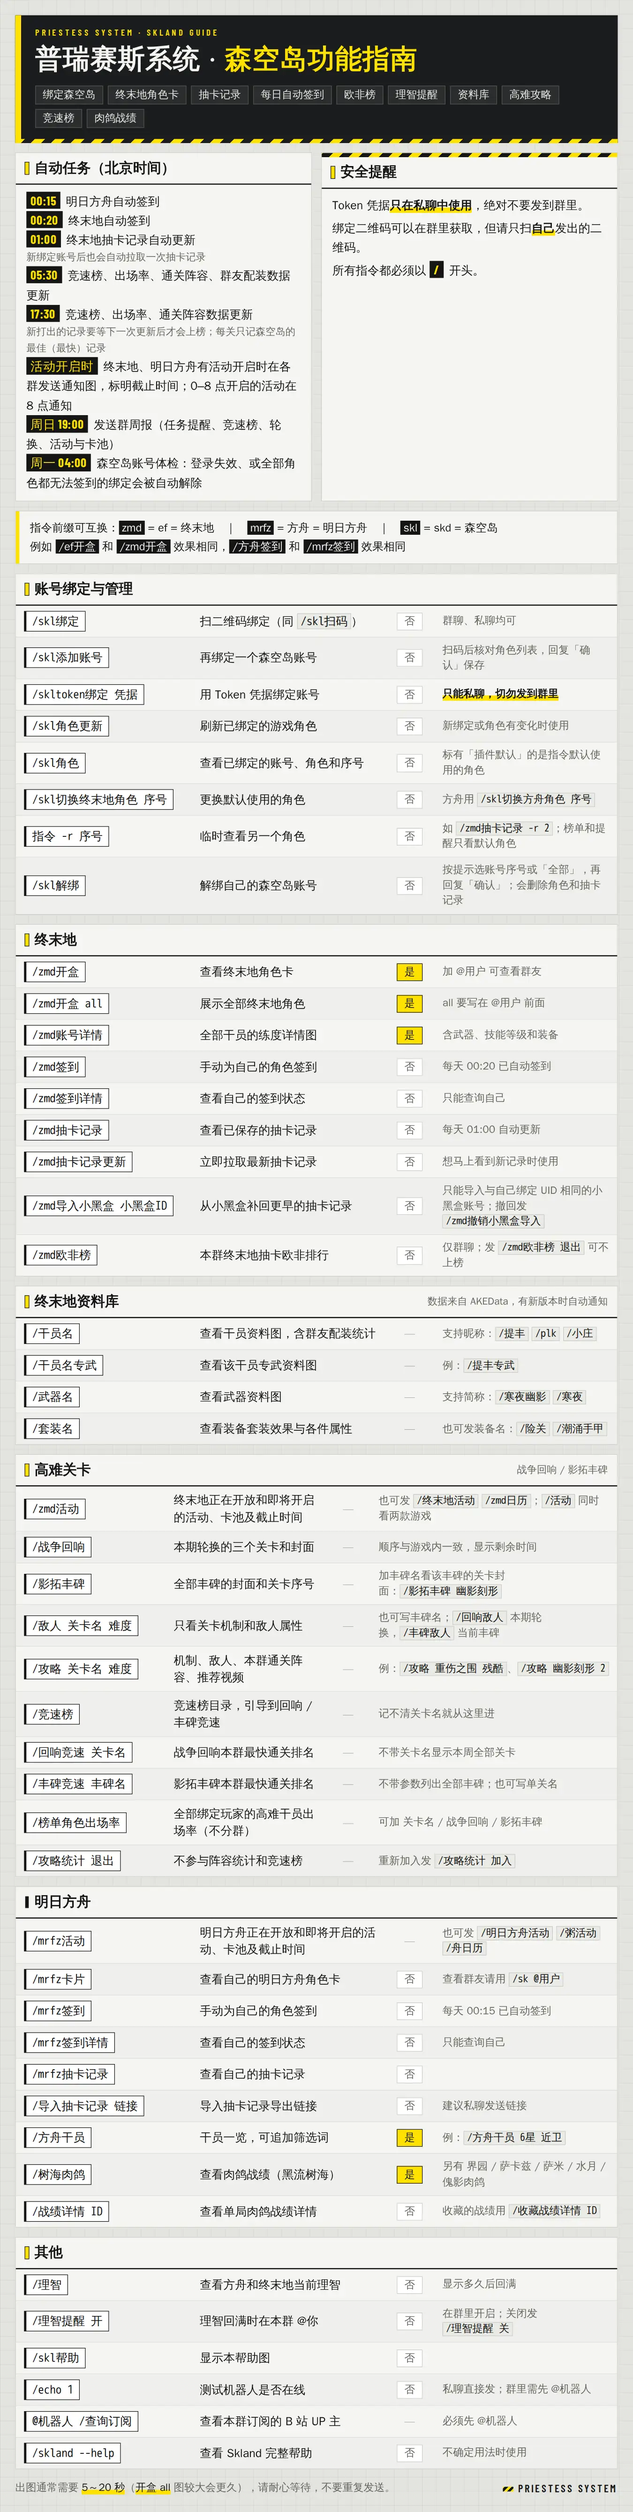
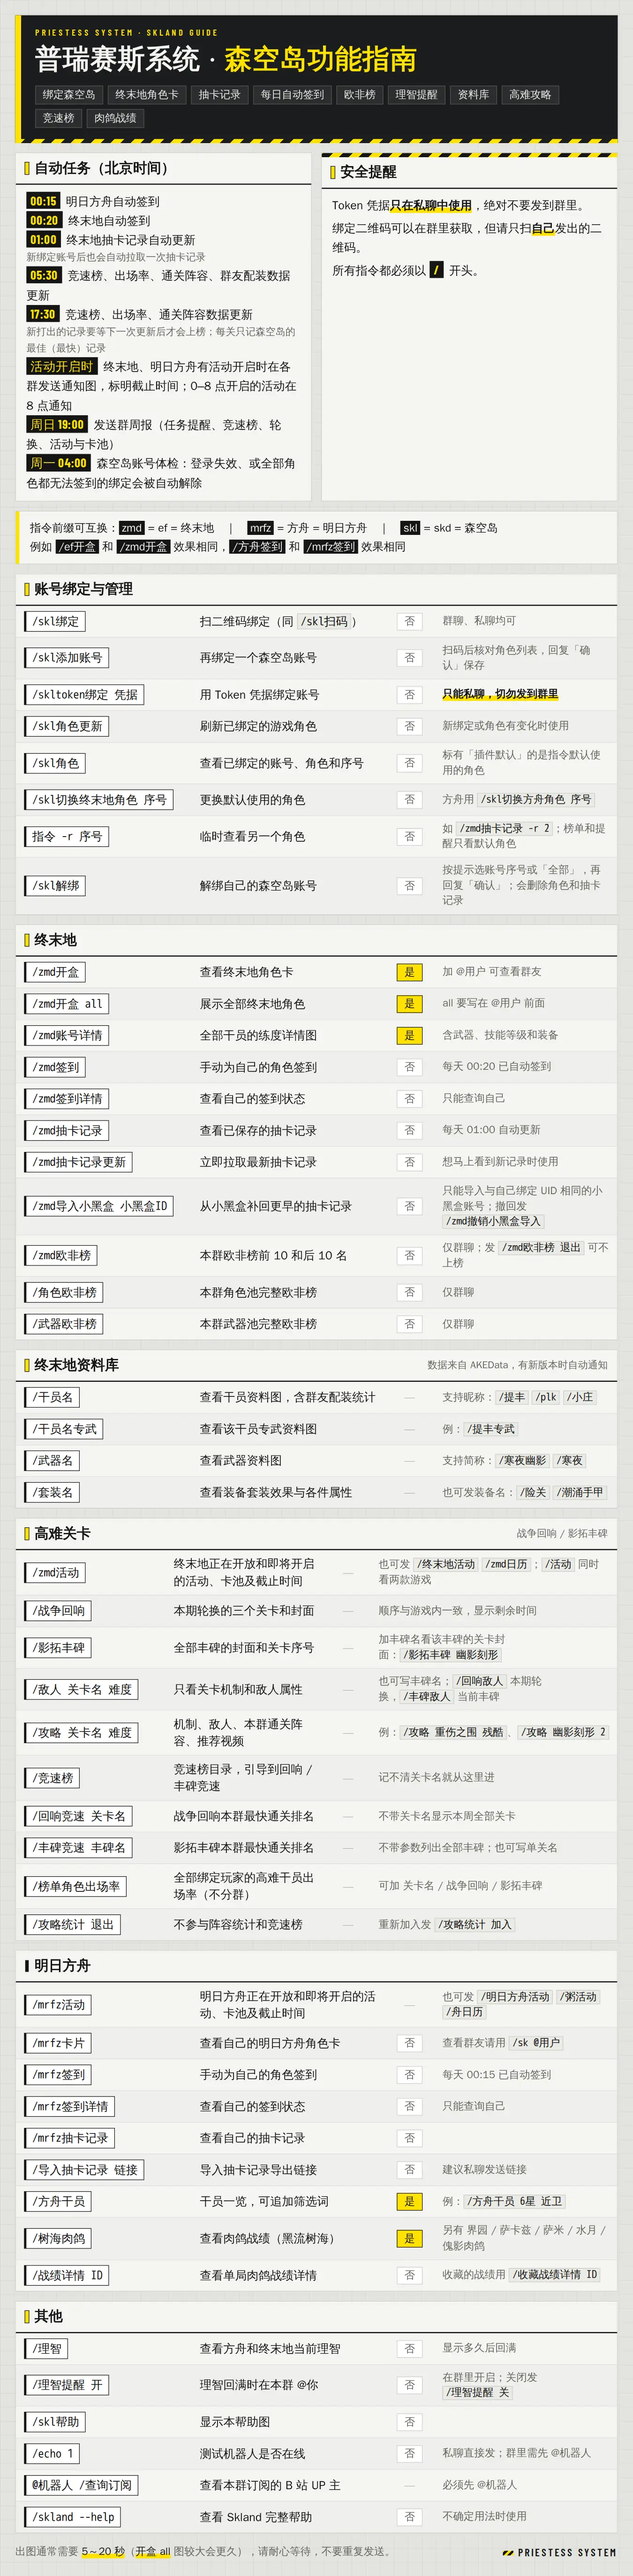
Split the luck board: top and bottom ten overview, full operator and weapon boards
/zmd欧非榜 now lists the ten luckiest and ten unluckiest members of the limited character pools and of the weapon pools, with the requester's place on both. /角色欧非榜 and /武器欧非榜 show the complete board of one pool, read down each column. Help image and README command table updated.

Changed region(s): [[0.0311, 0.0, 0.9644, 0.9979], [0.84, 0.6549, 0.9333, 0.6861], [0.6222, 0.9044, 0.6533, 0.9668]]

diff --git a/plugins/skl_help/help.html b/plugins/skl_help/help.html
@@ -167,7 +167,9 @@ td.note { color: var(--ef-sub); font-size: 18px; }
       <tr><td class="cmd"><code>/zmd抽卡记录</code></td><td class="fn">查看已保存的抽卡记录</td><td class="at"><span class="no">否</span></td><td class="note">每天 01:00 自动更新</td></tr>
       <tr><td class="cmd"><code>/zmd抽卡记录更新</code></td><td class="fn">立即拉取最新抽卡记录</td><td class="at"><span class="no">否</span></td><td class="note">想马上看到新记录时使用</td></tr>
       <tr><td class="cmd"><code>/zmd导入小黑盒 小黑盒ID</code></td><td class="fn">从小黑盒补回更早的抽卡记录</td><td class="at"><span class="no">否</span></td><td class="note">只能导入与自己绑定 UID 相同的小黑盒账号；撤回发 <code>/zmd撤销小黑盒导入</code></td></tr>
-      <tr><td class="cmd"><code>/zmd欧非榜</code></td><td class="fn">本群终末地抽卡欧非排行</td><td class="at"><span class="no">否</span></td><td class="note">仅群聊；发 <code>/zmd欧非榜 退出</code> 可不上榜</td></tr>
+      <tr><td class="cmd"><code>/zmd欧非榜</code></td><td class="fn">本群欧非榜前 10 和后 10 名</td><td class="at"><span class="no">否</span></td><td class="note">仅群聊；发 <code>/zmd欧非榜 退出</code> 可不上榜</td></tr>
+      <tr><td class="cmd"><code>/角色欧非榜</code></td><td class="fn">本群角色池完整欧非榜</td><td class="at"><span class="no">否</span></td><td class="note">仅群聊</td></tr>
+      <tr><td class="cmd"><code>/武器欧非榜</code></td><td class="fn">本群武器池完整欧非榜</td><td class="at"><span class="no">否</span></td><td class="note">仅群聊</td></tr>
     </table>
   </div>
 

diff --git a/plugins/skland_gacha_rank/__init__.py b/plugins/skland_gacha_rank/__init__.py
@@ -1,4 +1,7 @@
-"""Group-scoped Endfield gacha luck leaderboard (/zmd欧非榜).
+"""Group-scoped Endfield gacha luck leaderboards.
+
+/zmd欧非榜 shows the ten luckiest and ten unluckiest members for the limited character pools and for the
+weapon pools; /角色欧非榜 and /武器欧非榜 list everyone on one of the two boards.
 
 Stats reuse Skland's own grouping and averaging (group_ef_gacha_records), so the
 numbers match /zmd抽卡记录. Only members of the current group who have bound
@@ -9,6 +12,7 @@ from __future__ import annotations
 
 import contextlib
 import json
+from collections.abc import Callable
 from dataclasses import dataclass
 from datetime import datetime
 from zoneinfo import ZoneInfo
@@ -40,21 +44,27 @@ from sqlalchemy import select
 
 __plugin_meta__ = PluginMetadata(
     name="Endfield gacha leaderboard",
-    description="Ranks group members by Endfield limited-pool pulls per UP operator.",
-    usage="/zmd欧非榜 | /zmd欧非榜 退出 | /zmd欧非榜 加入",
+    description="Ranks group members by Endfield pulls per UP operator (limited pools) and per UP weapon.",
+    usage="/zmd欧非榜 | /角色欧非榜 | /武器欧非榜 | /zmd欧非榜 退出 | /zmd欧非榜 加入",
     type="application",
 )
 
 PLATFORM = "QQClient"
-CHAR_TOP = 10
-WEAPON_TOP = 5
+TOP = 10  # rows of each lucky / unlucky table on the overview
 MIN_UP = 2  # fewer UPs than this is too small a sample to rank
 WIDTH = 1000
+FULL_COLUMNS = 3  # the full boards read down each column
 REACTION_PROCESSING, REACTION_DONE, REACTION_FAIL = "66", "144", "10060"
 OPTOUT_FILE = store.get_plugin_data_file("optout.json")
 
 gacha_rank = on_command(
     "zmd欧非榜", aliases={"ef欧非榜", "终末地欧非榜", "欧非榜"}, rule=strict, priority=5, block=True
+)
+char_rank = on_command(
+    "zmd角色欧非榜", aliases={"ef角色欧非榜", "终末地角色欧非榜", "角色欧非榜"}, rule=strict, priority=5, block=True
+)
+weapon_rank = on_command(
+    "zmd武器欧非榜", aliases={"ef武器欧非榜", "终末地武器欧非榜", "武器欧非榜"}, rule=strict, priority=5, block=True
 )
 
 
@@ -67,6 +77,47 @@ class Entry:
     special_pulls: int
     weapon_avg: float
     weapon_up: int
+
+
+@dataclass(frozen=True)
+class Board:
+    pool: str  # 角色池 / 武器池
+    command: str
+    english: str
+    basis: str
+    target: str  # what one UP is, with its measure word
+    measure: str
+    empty: str
+    avg: Callable[[Entry], float]
+    count: Callable[[Entry], int]
+
+    def ranked(self, entries: list[Entry]) -> list[Entry]:
+        """Luckiest first; fewer UPs than MIN_UP is not ranked."""
+        return sorted((e for e in entries if self.count(e) >= MIN_UP), key=lambda e: (self.avg(e), -self.count(e)))
+
+
+CHARACTERS = Board(
+    pool="角色池",
+    command="/角色欧非榜",
+    english="Operator",
+    basis="限定池「平均多少抽出一个 UP 干员」",
+    target="一个 UP 干员",
+    measure="个",
+    empty="本群还没有可统计的终末地限定池抽卡记录",
+    avg=lambda e: e.up_avg,
+    count=lambda e: e.up_count,
+)
+WEAPONS = Board(
+    pool="武器池",
+    command="/武器欧非榜",
+    english="Weapon",
+    basis="武器池「平均多少抽出一把 UP 武器」",
+    target="一把 UP 武器",
+    measure="把",
+    empty="本群还没有可统计的终末地武器池抽卡记录",
+    avg=lambda e: e.weapon_avg,
+    count=lambda e: e.weapon_up,
+)
 
 
 def _load_optout() -> set[str]:
@@ -151,6 +202,8 @@ body { width: %dpx; padding: 26px; }
 .mine:before { content: ""; position: absolute; left: 0; top: 0; bottom: 0; width: 8px; background: var(--ef-yellow); }
 .mine b { font-family: var(--ef-num); font-weight: 700; font-size: 24px; color: var(--ef-yellow); padding: 0 2px; }
 .mine i { font-style: normal; font-family: var(--ef-num); font-weight: 600; font-size: 22px; }
+.mine div + div { margin-top: 5px; }
+.mine em { font-style: normal; color: #b9b9b2; }
 .pair { display: flex; gap: 14px; align-items: flex-start; }
 .pair .ef-sec { flex: 1; min-width: 0; }
 .unlucky > h3:before { background: var(--ef-ink); }
@@ -169,85 +222,145 @@ tr:nth-child(1) td.val b { font-weight: 700; background: var(--ef-yellow); paddi
 td.val b { font-weight: 700; }
 td.cnt { width: 96px; text-align: right; font-size: 14px; color: var(--ef-sub); }
 td.cnt b { font-family: var(--ef-num); font-weight: 600; font-size: 18px; color: var(--ef-ink); margin-right: 2px; }
-.grid { display: grid; grid-template-columns: repeat(3, 1fr); gap: 0 18px; padding: 8px 16px 10px; }
+tr.me td { background: rgba(255, 225, 0, .3); }
+tr.me td.nm { font-weight: 700; }
+tr.me td:first-child { box-shadow: inset 4px 0 0 var(--ef-ink); }
+.grid { display: grid; grid-auto-flow: column; grid-template-columns: repeat(%d, 1fr); gap: 0 18px; padding: 8px 16px 10px; }
 .grid span { display: flex; align-items: center; gap: 10px; font-size: 17px; padding: 5px 6px; border-bottom: 1px solid var(--ef-line-2); overflow: hidden; }
 .grid span.me { background: var(--ef-yellow); box-shadow: inset 0 0 0 1px var(--ef-ink); }
 .grid i { font-style: normal; font-family: var(--ef-num); font-weight: 600; font-size: 17px; color: var(--ef-sub); width: 30px; flex: none; text-align: right; }
 .grid span.me i { color: var(--ef-ink); }
 .grid em { font-style: normal; min-width: 0; overflow: hidden; white-space: nowrap; text-overflow: ellipsis; }
-.grid b { margin-left: auto; font-family: var(--ef-num); font-weight: 700; font-size: 20px; flex: none; }
+.grid u { margin-left: auto; text-decoration: none; font-size: 13px; color: var(--ef-sub); flex: none; }
+.grid b { width: 52px; text-align: right; font-family: var(--ef-num); font-weight: 700; font-size: 20px; flex: none; }
+.grid span.top i { color: var(--ef-ink); font-weight: 700; }
 """
 
 
-def _rows(entries: list[Entry], value, unit: str, count) -> str:
+def _rows(board: Board, entries: list[Entry], requester: str) -> str:
     return "".join(
-        f'<tr><td class="rk"><span>{i}</span></td><td class="nm">{escape(e.name)}</td>'
-        f'<td class="val"><b>{value(e):.1f}</b><small>{unit}</small></td><td class="cnt">{count(e)}</td></tr>'
+        f'<tr class="{"me" if e.qq == requester else ""}"><td class="rk"><span>{i}</span></td><td class="nm">{escape(e.name)}</td>'
+        f'<td class="val"><b>{board.avg(e):.1f}</b><small>抽</small></td>'
+        f'<td class="cnt"><b>{board.count(e)}</b> {board.measure} UP</td></tr>'
         for i, e in enumerate(entries, 1)
     )
 
 
-def _board(title: str, kind: str, rows: str, top: int) -> str:
-    return f'<div class="ef-sec {kind}"><h3>{title}<small>{kind.upper()} · TOP {top}</small></h3><table>{rows}</table></div>'
+def _tables(board: Board, ranked: list[Entry], requester: str) -> str:
+    """The ten luckiest and the ten unluckiest of one board, side by side."""
 
-
-def _render_html(entries: list[Entry], group_total: int, requester: str) -> str:
-    ranked = sorted((e for e in entries if e.up_count >= MIN_UP), key=lambda e: e.up_avg)
-    weapons = sorted((e for e in entries if e.weapon_up >= MIN_UP), key=lambda e: e.weapon_avg)
-    avg = sum(e.up_avg for e in ranked) / len(ranked)
-    char_cols = (lambda e: e.up_avg, "抽", lambda e: f"<b>{e.up_count}</b> 个 UP")
-    weapon_cols = (lambda e: e.weapon_avg, "抽", lambda e: f"<b>{e.weapon_up}</b> 把 UP")
-
-    mine = ""
-    if requester in {e.qq for e in ranked}:
-        pos = next(i for i, e in enumerate(ranked, 1) if e.qq == requester)
-        me = ranked[pos - 1]
-        mine = (
-            f'<div class="mine">你的排名：第 <b>{pos}</b> / <i>{len(ranked)}</i> 名，'
-            f"限定池平均 <b>{me.up_avg:.1f}</b> 抽出一个 UP（共 <i>{me.up_count}</i> 个）</div>"
+    def table(title: str, kind: str, entries: list[Entry]) -> str:
+        return (
+            f'<div class="ef-sec {kind}"><h3>{board.pool} · {title}<small>{kind.upper()} · TOP {TOP}</small></h3>'
+            f"<table>{_rows(board, entries, requester)}</table></div>"
         )
 
-    middle = ranked[CHAR_TOP : max(CHAR_TOP, len(ranked) - CHAR_TOP)]
-    middle_block = ""
-    if middle:
-        cells = "".join(
-            f'<span class="{"me" if e.qq == requester else ""}"><i>{i}</i><em>{escape(e.name)}</em><b>{e.up_avg:.1f}</b></span>'
-            for i, e in enumerate(middle, CHAR_TOP + 1)
-        )
-        middle_block = f'<div class="ef-sec rest"><h3>其余排名（第 {CHAR_TOP + 1}～{CHAR_TOP + len(middle)} 名）</h3><div class="grid">{cells}</div></div>'
+    return f'<div class="pair">{table("欧皇榜", "lucky", ranked[:TOP])}{table("非酋榜", "unlucky", ranked[::-1][:TOP])}</div>'
 
-    weapon_block = ""
-    if weapons:
-        weapon_block = (
-            '<div class="pair">'
-            + _board("武器池 · 欧皇", "lucky", _rows(weapons[:WEAPON_TOP], *weapon_cols), WEAPON_TOP)
-            + _board("武器池 · 非酋", "unlucky", _rows(weapons[::-1][:WEAPON_TOP], *weapon_cols), WEAPON_TOP)
-            + "</div>"
-        )
 
+def _mine(board: Board, ranked: list[Entry], entries: list[Entry], requester: str) -> str:
+    """One line with the requester's place on a board; empty when they have no saved records in this group."""
+    if not any(e.qq == requester for e in entries):
+        return ""
+    label = f"你的{board.pool}排名："
+    pos = next((i for i, e in enumerate(ranked, 1) if e.qq == requester), None)
+    if pos is None:
+        return f"<div>{label}<em>UP 不足 {MIN_UP} {board.measure}，暂未上榜</em></div>"
+    me = ranked[pos - 1]
     return (
-        f'<!doctype html><html><head><meta charset="utf-8"><style>{ef_theme.css()}{CSS % WIDTH}</style></head><body class="ef">'
-        + ef_theme.head(
-            "Endfield · Headhunting Luck Board",
-            "终末地 · <em>本群欧非榜</em>",
-            "按限定池「平均多少抽出一个 UP 干员」排名，越少越欧",
-            f"DATE<b>{datetime.now(ZoneInfo('Asia/Shanghai')):%y-%m-%d}</b>",
-        )
-        + f"""<div class="summary">
-    <div>参与排名<b>{len(ranked)}</b></div>
-    <div>本群有抽卡记录<b>{group_total}</b></div>
-    <div class="hl">群平均 UP 抽数<br><b>{avg:.1f}</b></div>
-  </div>{mine}
-  <div class="pair">"""
-        + _board("欧皇榜", "lucky", _rows(ranked[:CHAR_TOP], *char_cols), CHAR_TOP)
-        + _board("非酋榜", "unlucky", _rows(ranked[::-1][:CHAR_TOP], *char_cols), CHAR_TOP)
-        + f"</div>{middle_block}{weapon_block}"
+        f"<div>{label}第 <b>{pos}</b> / <i>{len(ranked)}</i> 名，"
+        f"平均 <b>{board.avg(me):.1f}</b> 抽出{board.target}（共 <i>{board.count(me)}</i> {board.measure}）</div>"
+    )
+
+
+def _average(board: Board, ranked: list[Entry]) -> float:
+    return sum(board.avg(e) for e in ranked) / len(ranked)
+
+
+def _page(code: str, title: str, subtitle: str, body: str, note: str) -> str:
+    return (
+        f'<!doctype html><html><head><meta charset="utf-8"><style>{ef_theme.css()}{CSS % (WIDTH, FULL_COLUMNS)}</style></head><body class="ef">'
+        + ef_theme.head(code, f"终末地 · <em>{title}</em>", subtitle, f"DATE<b>{datetime.now(ZoneInfo('Asia/Shanghai')):%y-%m-%d}</b>")
+        + body
         + ef_theme.foot(
             f"数据来自已保存的抽卡记录（每天 01:00 自动更新，不含免费十连和当前垫抽），至少出过 {MIN_UP} 个 UP 才参与排名<br>"
-            "不想上榜可发送 /zmd欧非榜 退出，重新加入发送 /zmd欧非榜 加入"
+            f"{note}不想上榜可发送 /zmd欧非榜 退出，重新加入发送 /zmd欧非榜 加入"
         )
         + "</body></html>"
     )
+
+
+def _render_overview(entries: list[Entry], requester: str) -> str | None:
+    """Both boards, top and bottom ten each; None when nobody in the group can be ranked on the character board."""
+    boards = [(b, ranked) for b in (CHARACTERS, WEAPONS) if (ranked := b.ranked(entries))]
+    if not boards or boards[0][0] is not CHARACTERS:
+        return None
+    tiles = "".join(
+        f'<div>{b.pool}上榜<b>{len(ranked)}</b></div><div class="hl">{b.pool}群平均 UP 抽数<br><b>{_average(b, ranked):.1f}</b></div>'
+        for b, ranked in boards
+    )
+    if len(boards) == 1:
+        tiles += f"<div>本群有抽卡记录<b>{len(entries)}</b></div>"
+    mine = "".join(_mine(b, ranked, entries, requester) for b, ranked in boards)
+    return _page(
+        "Endfield · Headhunting Luck Board",
+        "本群欧非榜",
+        f"按「平均多少抽出一个 UP」排名，越少越欧；每个榜只列前 {TOP} 名和后 {TOP} 名",
+        f'<div class="summary">{tiles}</div>'
+        + (f'<div class="mine">{mine}</div>' if mine else "")
+        + "".join(_tables(b, ranked, requester) for b, ranked in boards),
+        f"完整榜单发送 {CHARACTERS.command} 或 {WEAPONS.command}；",
+    )
+
+
+def _render_board(board: Board, entries: list[Entry], requester: str) -> str | None:
+    """Everyone on one board; None when nobody in the group can be ranked on it."""
+    ranked = board.ranked(entries)
+    if not ranked:
+        return None
+    cells = "".join(
+        f'<span class="{"me" if e.qq == requester else "top" if i <= 3 else ""}"><i>{i}</i><em>{escape(e.name)}</em>'
+        f"<u>{board.count(e)} {board.measure}</u><b>{board.avg(e):.1f}</b></span>"
+        for i, e in enumerate(ranked, 1)
+    )
+    mine = _mine(board, ranked, entries, requester)
+    rows = -(-len(ranked) // FULL_COLUMNS)
+    return _page(
+        f"Endfield · {board.english} Luck Board",
+        f"本群{board.pool}欧非榜",
+        f"按{board.basis}排名，越少越欧",
+        f"""<div class="summary">
+    <div>参与排名<b>{len(ranked)}</b></div>
+    <div>最欧<b>{board.avg(ranked[0]):.1f}</b></div>
+    <div>最非<b>{board.avg(ranked[-1]):.1f}</b></div>
+    <div class="hl">群平均 UP 抽数<br><b>{_average(board, ranked):.1f}</b></div>
+  </div>"""
+        + (f'<div class="mine">{mine}</div>' if mine else "")
+        + f'<div class="ef-sec rest"><h3>完整榜单<small class="cjk">名次 · 群名片 · UP 数 · 平均抽数</small></h3><div class="grid" style="grid-template-rows: repeat({rows}, auto)">{cells}</div></div>',
+        "前后十名总览发送 /zmd欧非榜；",
+    )
+
+
+async def _send(matcher, bot: Bot, event: MessageEvent, render: Callable[[list[Entry], str], str | None], empty: str) -> None:
+    if not isinstance(event, GroupMessageEvent):
+        await matcher.finish("欧非榜只能在群里使用")
+
+    await _react(REACTION_PROCESSING)
+    try:
+        entries = await _collect(bot, event.group_id)
+        html = render(entries, str(event.user_id))
+        if html is None:
+            await _react(REACTION_DONE)
+            await matcher.finish(empty)
+        image = await ef_theme.render_page(html, WIDTH, height=600)
+        await UniMessage.image(raw=image).send()
+    except MatcherException:
+        raise
+    except Exception as e:
+        logger.warning(f"Endfield gacha leaderboard failed: {type(e).__name__}")
+        await _react(REACTION_FAIL)
+        raise
+    await _react(REACTION_DONE)
 
 
 @gacha_rank.handle()
@@ -265,22 +378,14 @@ async def _(bot: Bot, event: MessageEvent, arg: Message = CommandArg()) -> None:
         await _react(REACTION_DONE)
         await gacha_rank.finish("已退出欧非榜，不会再出现在任何群的榜单上" if action == "退出" else "已重新加入欧非榜")
 
-    if not isinstance(event, GroupMessageEvent):
-        await gacha_rank.finish("欧非榜只能在群里使用")
+    await _send(gacha_rank, bot, event, _render_overview, CHARACTERS.empty)
 
-    await _react(REACTION_PROCESSING)
-    try:
-        entries = await _collect(bot, event.group_id)
-        if not any(e.up_count >= MIN_UP for e in entries):
-            await _react(REACTION_DONE)
-            await gacha_rank.finish("本群还没有可统计的终末地限定池抽卡记录")
-        html = _render_html(entries, len(entries), qq)
-        image = await ef_theme.render_page(html, WIDTH, height=600)
-        await UniMessage.image(raw=image).send()
-    except MatcherException:
-        raise
-    except Exception as e:
-        logger.warning(f"Endfield gacha leaderboard failed: {type(e).__name__}")
-        await _react(REACTION_FAIL)
-        raise
-    await _react(REACTION_DONE)
+
+@char_rank.handle()
+async def _(bot: Bot, event: MessageEvent) -> None:
+    await _send(char_rank, bot, event, lambda entries, qq: _render_board(CHARACTERS, entries, qq), CHARACTERS.empty)
+
+
+@weapon_rank.handle()
+async def _(bot: Bot, event: MessageEvent) -> None:
+    await _send(weapon_rank, bot, event, lambda entries, qq: _render_board(WEAPONS, entries, qq), WEAPONS.empty)

diff --git a/README.md b/README.md
@@ -250,7 +250,8 @@ NapCat 以反向 WebSocket 客户端连入。动态推送可另外搭配
 | `/zmd抽卡记录`、`/zmd抽卡记录更新` | 查看 / 立即拉取抽卡记录 | 否 |
 | `/zmd导入小黑盒 小黑盒ID` | 从小黑盒补回更早的抽卡记录；只能导入与自己绑定的终末地 UID 相同的小黑盒账号 | 否 |
 | `/zmd撤销小黑盒导入` | 删除自己从小黑盒导入的全部记录 | 否 |
-| `/zmd欧非榜`（别名 `/欧非榜`） | 本群限定池欧非排行；`/zmd欧非榜 退出` 可不上榜 | 仅群聊 |
+| `/zmd欧非榜`（别名 `/欧非榜`） | 本群角色池、武器池欧非榜的前 10 和后 10 名；`/zmd欧非榜 退出` 可不上榜 | 仅群聊 |
+| `/角色欧非榜`、`/武器欧非榜` | 本群角色池 / 武器池的完整欧非榜 | 仅群聊 |
 
 ### 终末地资料库
 
